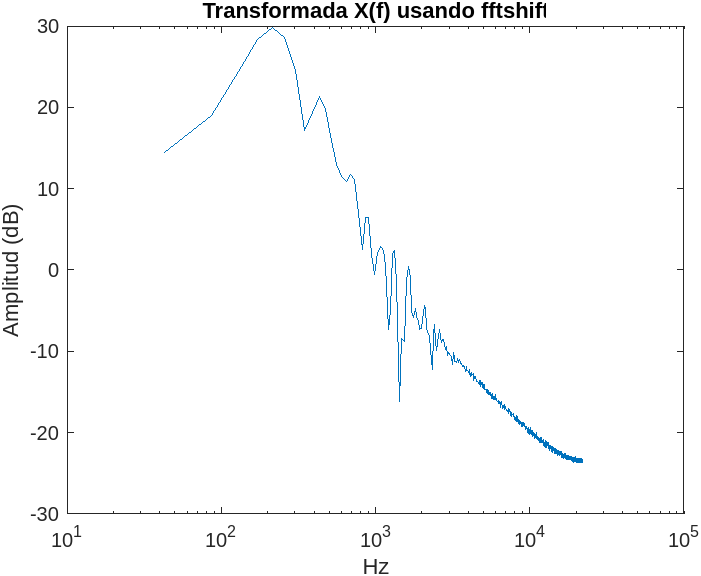
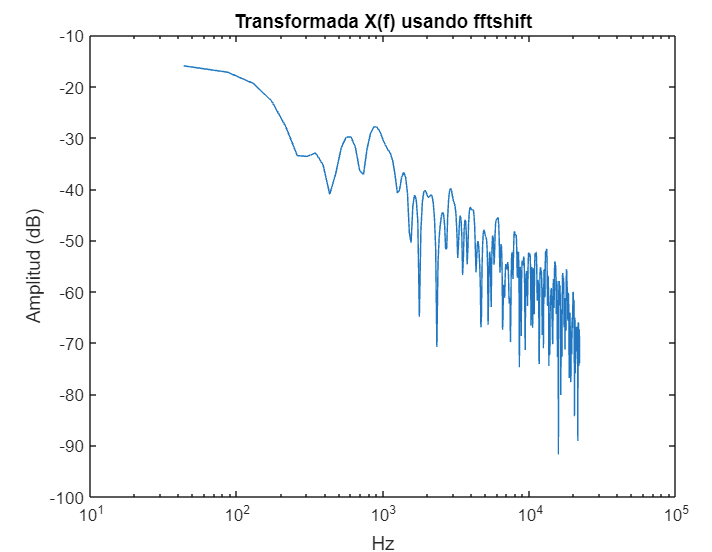
Cambios FFT

diff --git a/codigoSimulacion.m b/codigoSimulacion.m
@@ -40,7 +40,7 @@ xlabel('Tiempo (s)')
 % Cálculo de la transformada de Fourier. 
 % (Código obtenido del ejemplo 4.0 entregado por el profesor en canvas)
 N = 1024; % tamaño de la Fast Fourier Transform (FFT)
-X = fft(xCuerda, N); % FFT es habitualmente compleja, X(1) contiene componente 
+X = fft(x, N); % FFT es habitualmente compleja, X(1) contiene componente 
 % continua. N es el tamaño de la secuencia. Usar potencia de 2 para que
 % el algoritmo sea mas eficiente
 
